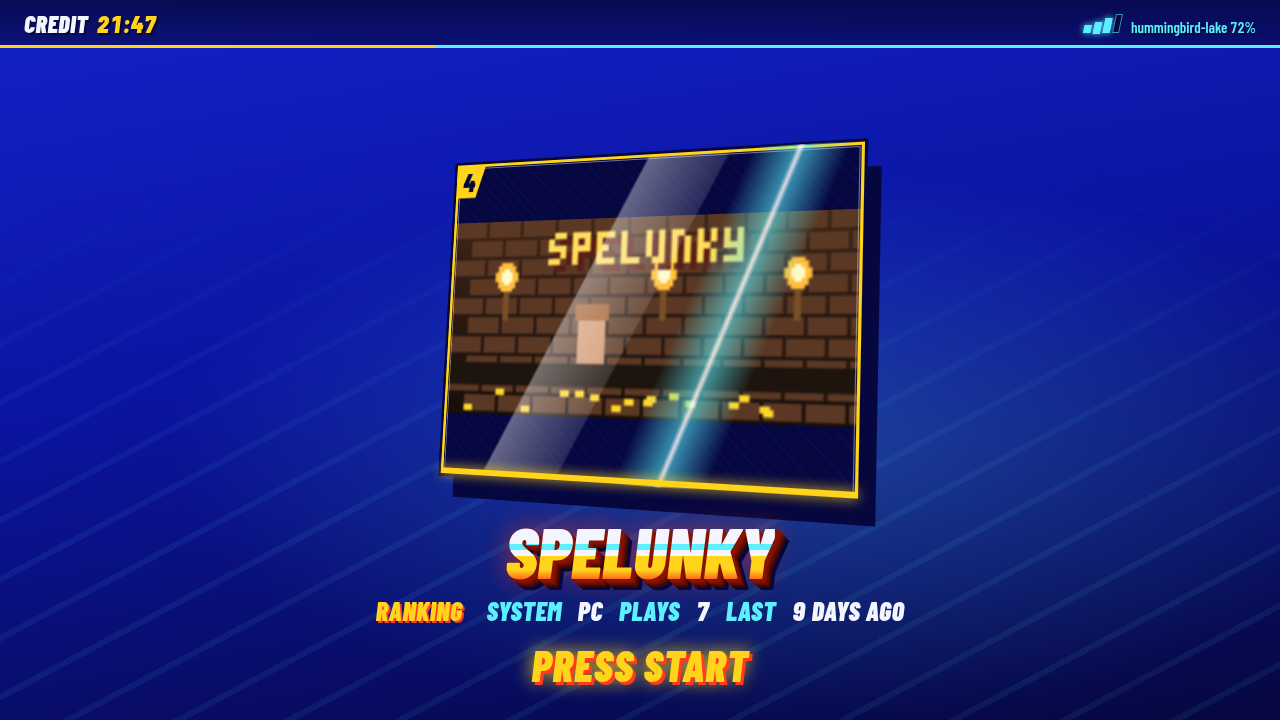
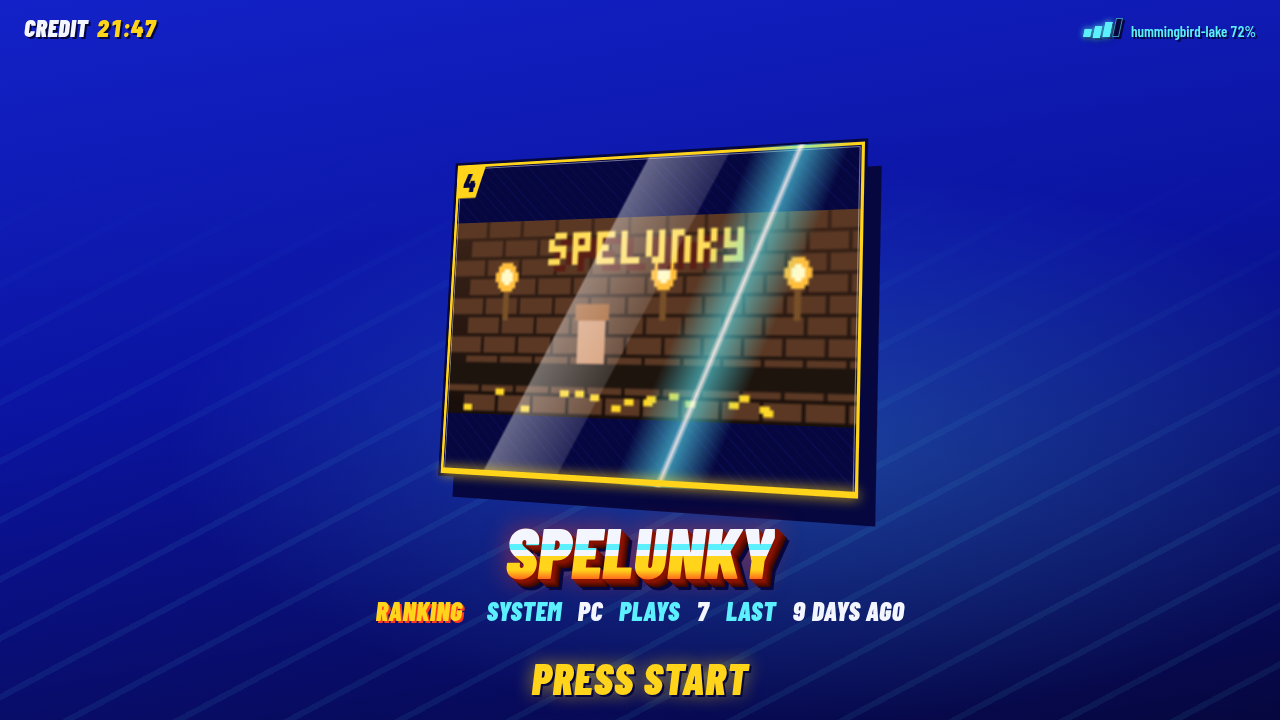
docs(design): let the modern-arcade stage bleed to the edges
Remove the top and foot strips and the full-width rule that boxed the stage
in. The four corner readouts and PRESS START float on the ground with a hard
offset shadow, the showcase takes the reclaimed height, and the 640x480
facts band becomes a content-width card with an angled edge.

Changed region(s): [[0.0, 0.0, 1.0, 0.0917], [0.4062, 0.8861, 0.5938, 0.9778]]

diff --git a/docs/design/surfaces/arcade-modern/index.html b/docs/design/surfaces/arcade-modern/index.html
@@ -22,7 +22,7 @@
   /* spacing scale: 4 8 12 16 24 32 48, times k = max(.6, min(w/1280, h/720)); JS writes the rounded values */
   --grid: 4px; --k: 1; --kt: 1;   /* --kt: type scale, k clamped to [.6, 1.2] because the panel width stops growing at 380 */
   --sp-4: 4px; --sp-8: 8px; --sp-12: 12px; --sp-16: 16px; --sp-24: 24px; --sp-32: 32px; --sp-48: 48px;
-  --top: 48px; --foot: 48px; --panelW: 333px; --bandH: 0px; --cardW: 320px; --title: 64px; --acardW: 480px; --oy: 30%;
+  --top: 40px; --foot: 38px; --readout: 24px; --svc: 22px; --panelW: 333px; --bandH: 0px; --cardW: 320px; --title: 64px; --acardW: 480px; --oy: 30%;
 }
 * { box-sizing: border-box; margin: 0; padding: 0; }
 html, body { width: 100%; height: 100%; overflow: hidden; background: var(--pit); }
@@ -41,14 +41,9 @@ body { font-family: var(--text); color: var(--chrome); -webkit-font-smoothing: a
 /* display face: 0 tracking on titles, +.02em on small caps readouts, never wider */
 .caps { letter-spacing: .02em; }
 
-/* ---------- top bar: one thin strip with a banded rule across the full width ---------- */
-#topbar { position: absolute; left: 0; right: 0; top: 0; height: var(--top); z-index: 30;
-  background: linear-gradient(180deg, rgba(6,7,63,.85), rgba(6,7,63,.55)); }
-#topbar::after { content: ""; position: absolute; left: 0; right: 0; bottom: 0; height: 3px;
-  background: linear-gradient(90deg, var(--focus) 0 34%, var(--sweep) 34% 100%); }
-.corner { position: absolute; top: 0; height: var(--top); display: flex; align-items: baseline; z-index: 31;
-  padding-top: calc((var(--top) - 1em) / 2);
-  font-family: var(--display); font-size: calc(var(--top) * .5); line-height: 1; color: var(--chrome);
+/* ---------- readouts float on the ground: no bars, no strips, a hard 2px pit-navy offset shadow each ---------- */
+.corner { position: absolute; top: var(--sp-16); display: flex; align-items: baseline; z-index: 31;
+  font-family: var(--display); font-size: var(--readout); line-height: 1; color: var(--chrome);
   text-shadow: 2px 2px 0 var(--pit); }
 .corner.tl { left: var(--sp-24); gap: .35em; }
 .corner.tl b { color: var(--focus); font-weight: 900; }
@@ -57,6 +52,7 @@ body { font-family: var(--text); color: var(--chrome); -webkit-font-smoothing: a
 .signal { display: inline-flex; align-items: flex-end; gap: 3px; height: .8em; }
 .signal i { width: .3em; background: var(--pit); border: 1px solid rgba(92,240,255,.6); transform: skewX(-12deg); }
 .signal i:nth-child(1) { height: 40%; } .signal i:nth-child(2) { height: 60%; } .signal i:nth-child(3) { height: 80%; } .signal i:nth-child(4) { height: 100%; }
+.signal { filter: drop-shadow(2px 2px 0 var(--pit)); }
 .signal i.on { background: var(--sweep); box-shadow: 0 0 6px var(--sweep); border-color: var(--sweep); }
 .corner.tr small { font-family: var(--text); font-size: .62em; color: var(--sweep); letter-spacing: 0; }
 
@@ -110,18 +106,14 @@ body { font-family: var(--text); color: var(--chrome); -webkit-font-smoothing: a
 .link { flex: 0 0 auto; align-self: center; padding: 0 var(--sp-4); text-align: center; font-family: var(--display); font-size: calc(12px * var(--kt)); color: var(--hot); position: relative; }
 .link::before { content: ""; position: absolute; left: 2px; right: 2px; top: 100%; height: 3px; background: var(--hot); margin-top: 2px; }
 
-/* band mode: the panel drops under the stage as one strip */
-#screen[data-mode="band"] #panel { left: 0; right: 0; top: auto; bottom: 0; width: auto;
-  padding: var(--sp-16) var(--sp-16) var(--sp-12); flex-direction: row; flex-wrap: wrap; align-items: baseline; gap: var(--sp-4) var(--sp-24); }
-#screen[data-mode="band"] #panel::before { clip-path: none; }
-#screen[data-mode="band"] #panel::after { display: none; }
+/* band mode: the same content-width ranking card, dropped under the stage at the left edge; the ground shows to its right */
+#screen[data-mode="band"] #panel { left: var(--sp-16); right: auto; top: auto; bottom: var(--sp-8); width: max-content; max-width: calc(100% - 2 * var(--sp-16));
+  padding: var(--sp-12) var(--sp-32) var(--sp-8) var(--sp-16); flex-direction: row; flex-wrap: wrap; align-items: baseline; gap: var(--sp-4) var(--sp-16); }
 #screen[data-mode="band"] .tab { left: var(--sp-16); }
 #screen[data-mode="band"] #p-title { font-size: 24px; max-width: 48%; }
-#screen[data-mode="band"] .entry { order: 1; }
-#screen[data-mode="band"] #places { order: 2; }
 #screen[data-mode="band"] .facts { display: flex; flex-wrap: wrap; gap: var(--sp-4) var(--sp-16); font-size: 15px; line-height: 20px; }
 #screen[data-mode="band"] .facts div { display: flex; gap: var(--sp-8); }
-#screen[data-mode="band"] .entry { margin-left: auto; font-size: 14px; line-height: 20px; }
+#screen[data-mode="band"] .entry { flex: 1 0 100%; font-size: 14px; line-height: 20px; }
 #screen[data-mode="band"] #places { flex: 1 0 100%; }
 #screen[data-mode="band"] .hint { font-size: 14px; line-height: 20px; }
 #screen[data-mode="band"] .cab { flex-direction: row; align-items: baseline; gap: var(--sp-8); padding: var(--sp-4) var(--sp-8); }
@@ -214,19 +206,17 @@ body { font-family: var(--text); color: var(--chrome); -webkit-font-smoothing: a
 #msg p { position: absolute; bottom: 14%; left: 0; right: 0; font-size: calc(20px * var(--k)); color: var(--sweep); }
 
 /* ---------- foot: service line ---------- */
-#foot { position: absolute; left: 0; right: 0; bottom: 0; height: var(--foot); display: flex; align-items: baseline; justify-content: space-between; z-index: 30;
-  padding: calc((var(--foot) - var(--foot) * .46) / 2) var(--sp-24) 0; background: linear-gradient(180deg, rgba(6,7,63,0), rgba(6,7,63,.85) 40%); }
-.svc { display: flex; align-items: baseline; gap: var(--sp-24); font-family: var(--display); font-size: calc(var(--foot) * .46); line-height: 1; white-space: nowrap;
-  opacity: .55; transition: opacity .2s; }
+#foot { position: absolute; left: var(--sp-24); right: var(--sp-24); bottom: var(--sp-16); display: flex; align-items: baseline; justify-content: space-between; z-index: 30; }
+.svc { display: flex; align-items: baseline; gap: var(--sp-24); font-family: var(--display); font-size: var(--svc); line-height: 1; white-space: nowrap;
+  opacity: .55; transition: opacity .2s; text-shadow: 2px 2px 0 var(--pit); }
 #screen[data-zone="service"] .svc { opacity: 1; }
 .svc .k { color: var(--hot); }
 .svc .it { color: var(--chrome); padding: var(--sp-4) var(--sp-8); margin: calc(var(--sp-4) * -1) calc(var(--sp-8) * -1); }
 .svc .it.focus { background: var(--focus); color: var(--pit); box-shadow: 0 0 14px var(--focus); clip-path: polygon(4px 0, 100% 0, calc(100% - 4px) 100%, 0 100%); }
-.rom { display: flex; align-items: baseline; gap: var(--sp-12); font-family: var(--text); font-size: calc(var(--foot) * .36); line-height: 1; color: var(--sweep); white-space: nowrap; }
+.rom { display: flex; align-items: baseline; gap: var(--sp-12); font-family: var(--text); font-size: calc(var(--svc) * .78); line-height: 1; color: var(--sweep); white-space: nowrap; text-shadow: 2px 2px 0 var(--pit); }
 .rom b { color: var(--chrome); font-weight: 600; font-family: var(--display); font-size: 1.25em; letter-spacing: .02em; }
-#screen[data-foot="2"] #foot { flex-direction: column; align-items: flex-start; justify-content: center; gap: var(--sp-4); padding-top: 0; }
-#screen[data-foot="2"] .svc { font-size: calc(var(--foot) * .25); }
-#screen[data-foot="2"] .rom { font-size: calc(var(--foot) * .2); align-self: flex-end; }
+#screen[data-foot="2"] #foot { flex-direction: column; align-items: flex-start; gap: var(--sp-8); }
+#screen[data-foot="2"] .rom { align-self: flex-end; }
 
 /* ---------- attract ---------- */
 #attract { position: absolute; inset: 0; display: none; z-index: 20; overflow: hidden; --cardW: var(--acardW); --title: var(--atitle); }
@@ -246,8 +236,8 @@ body { font-family: var(--text); color: var(--chrome); -webkit-font-smoothing: a
 #a-rank .k { color: var(--sweep); }
 #a-rank .v { color: var(--chrome); }
 #a-rank .r { color: var(--focus); margin-right: var(--sp-8); text-shadow: 2px 2px 0 var(--hot); }
-#press { position: absolute; left: 50%; bottom: calc(var(--foot) * .6); transform: translateX(-50%); font-family: var(--display); font-size: calc(var(--title) * .6);
-  color: var(--focus); letter-spacing: .02em; text-shadow: 3px 3px 0 var(--hot), 0 0 18px var(--focus); animation: pulse 1s steps(1) infinite; white-space: nowrap; }
+#press { position: absolute; left: 50%; bottom: var(--sp-16); transform: translateX(-50%); font-family: var(--display); font-size: calc(var(--title) * .6);
+  color: var(--focus); letter-spacing: .02em; text-shadow: 2px 2px 0 var(--pit), 0 0 18px rgba(255,212,26,.6); animation: pulse 1s steps(1) infinite; white-space: nowrap; }
 @keyframes pulse { 50% { opacity: 0; } }
 
 /* still / reduced motion */
@@ -264,7 +254,6 @@ body { font-family: var(--text); color: var(--chrome); -webkit-font-smoothing: a
 </head>
 <body>
 <div id="screen" data-state="select" data-mode="side" data-zone="ring">
-  <div id="topbar"></div>
   <div class="corner tl caps">CREDIT <b id="clock">21:47</b></div>
   <div class="corner tr"><span class="strut">&#8203;</span><span class="signal" aria-label="Wi-Fi 72%"><i class="on"></i><i class="on"></i><i class="on"></i><i></i></span><small>hummingbird-lake 72%</small></div>
 
@@ -365,11 +354,13 @@ function plan(w, h, n) {
   const sp = {}; for (const n of [4, 8, 12, 16, 24, 32, 48]) sp[n] = Math.round(n * k);
   const side = w >= SIDE_MIN_W && w / h >= SIDE_MIN_ASPECT;
   const footRows = w >= FOOT_ONE_ROW_MIN_W ? 1 : 2;
-  const top = sp[48], foot = sp[48] * footRows;
+  /* no bars: the top and foot regions are only the floating readouts' own height plus sp16 */
+  const readout = Math.round(24 * kt), svc = Math.round(22 * kt);
+  const top = sp[16] + readout, foot = sp[16] + (footRows === 1 ? svc : svc * 2 + sp[8]);
   const panelW = side ? Math.round(clamp(w * .26, 280, 380)) : 0;
   const visible = w >= FULL_RING_MIN_W ? 12 : 5;
-  return { k, kt, sp, side, top, foot, footRows, panelW, visible, step: visible >= 12 ? 360 / clamp(n, 8, 12) : 55,
-    showFrac: w / h < 1 ? .48 : .36,   /* of the ring region (side) or the stage (band) */
+  return { k, kt, sp, side, top, foot, footRows, readout, svc, panelW, visible, step: visible >= 12 ? 360 / clamp(n, 8, 12) : 55,
+    showFrac: side ? .40 : (w / h < 1 ? .48 : .36),   /* of the ring region (side) or the stage (band) */
     acardW: Math.round(Math.min(w * .40, h * .46 * 4 / 3)), atitle: Math.round(clamp(Math.min(w * .40, h * .46 * 4 / 3) * .2, 26, 72)) };
 }
 let P, SP;
@@ -378,7 +369,7 @@ function applyPlan() {
   const s = screen.style;
   s.setProperty('--k', P.k.toFixed(3)); s.setProperty('--kt', P.kt.toFixed(3));
   for (const n in SP) s.setProperty('--sp-' + n, SP[n] + 'px');
-  s.setProperty('--top', P.top + 'px'); s.setProperty('--foot', P.foot + 'px');
+  s.setProperty('--top', P.top + 'px'); s.setProperty('--foot', P.foot + 'px'); s.setProperty('--readout', P.readout + 'px'); s.setProperty('--svc', P.svc + 'px');
   s.setProperty('--panelW', P.panelW + 'px'); s.setProperty('--acardW', P.acardW + 'px'); s.setProperty('--atitle', P.atitle + 'px');
   screen.dataset.mode = P.side ? 'side' : 'band';
   screen.dataset.foot = P.footRows;
@@ -542,7 +533,7 @@ function renderPanel() {
     return `<div class="cab${lit ? ' lit' : ''}${foc ? ' focus' : ''}"><span class="side caps">${i === 0 ? '1P SIDE' : '2P SIDE'}</span><span class="name">${upper(p)}</span></div>`;
   }).join('<span class="link caps">LINK</span>') : '';
   fitPanelTitle();
-  screen.style.setProperty('--bandH', (P.side ? 0 : panel.offsetHeight) + 'px');
+  screen.style.setProperty('--bandH', (P.side ? 0 : panel.offsetHeight + SP[8]) + 'px');
   layoutRing();
 }
 
@@ -608,6 +599,9 @@ window.audit = () => {
     const l2 = R((focus - 2 + N) % N), r2 = R((focus + 2) % N); out.n12L = Math.round(ix(l, l2)); out.n12R = Math.round(ix(r, r2)); }
   const p = document.getElementById('panel').getBoundingClientRect(); out.panel = rr(p);
   if (screen.dataset.mode === 'side') for (const i of vis) { const b = R(i); if (ix(p, b)) out['underPanel' + i] = Math.round(ix(p, b)); }
+  const ro = ['.corner.tl', '.corner.tr', '#foot'].map(s => document.querySelector(s).getBoundingClientRect());
+  for (const i of vis) { const b = R(i); ro.forEach((r, j) => { if (ix(r, b)) out['hitReadout' + j + '_' + i] = Math.round(ix(r, b)); }); }
+  out.panelGapTop = Math.round(p.top - ro[0].bottom);
   const pl = document.getElementById('plinth').getBoundingClientRect();
   for (const i of vis) { if (i === focus) continue; const t = ring.children[i].querySelector('.num').getBoundingClientRect(); if (ix(t, f) || ix(t, pl)) out['tabHidden' + i] = Math.round(ix(t, f) + ix(t, pl)); }
   if (N > 4) { const ks = [-2, -1, 1, 2].map(k => R(((focus + k) % N + N) % N)); for (let a = 0; a < 4; a++) for (let b = a + 1; b < 4; b++) { const o = ix(ks[a], ks[b]); if (o) out['front' + a + b] = Math.round(o); } }

diff --git a/docs/design/surfaces/arcade-modern/DIRECTION.md b/docs/design/surfaces/arcade-modern/DIRECTION.md
@@ -12,9 +12,9 @@
 
 **Disclosure rule.** Resting SELECT shows the showcase, ring, top readouts and the panel with title + facts only. The places pair appears as a one-line hint `LINK · 2 CABINETS ▾` only when the focused game has two places and focus is on the ring; it expands into the 1P/2P cabinet boxes only when focus enters it (`?zone=places`, down or A). TEST MODE sits at 55% and lights to full when focused or `menu` is pressed (`?zone=service`). On the ring only the focused card and its two nearest neighbours carry a readable title; farther cards show number and picture only.
 
-**Ring math (one line).** Cards sit on an ellipse `(rx, ry = .2·showH)` at angle `θ(k)`: the front five (k = −2..2) at `k·stepF`, the back cards sharing the rest of the circle at `stepB = (360 − 4·stepF)/(N − 4)`; screen point `X = cx + rx·sin θ, Y = cy − ry·(cos stepF − cos θ)` so k = ±1 sit level with the showcase centre; depth `d = (1 − cos θ)/2` gives `translateZ = −1000·d`, `rotateY = 50·sin θ`, navy shade `.55·d`, `z-index ∝ 1 − d`; `translate3d` is solved so the perspective (1100px, origin at .35·cy) projects each card onto that point. Side mode: the ring region is `[panelRight + sp24, w − sp24]`, `cx` is its centre (showcase too), showcase `cardW = .36·region` (315 at 1280), `rx = .42·region` growing to the region edge, then `stepF` (30°..48°) is solved so the front five keep a 16px gap from the showcase frame and each other; only past 48° does the showcase shrink. Back-half cards (|θ| > 90°) may pass behind the showcase and plinth but their number tab stays visible (the ellipse nudges up by any overlap); no card ever sits under the panel. Band mode: 5 cards at 55°, `rx` the smallest radius that clears the showcase by 8px, never past the viewport edge. Back cards are higher on screen (ring seen from above) so the plinth band stays clear; the thin cyan track is the same ellipse. Step 30° for 12 cards (360/N for 8..12), 55° for the 5-card ring (`w < 760`); N > 12 shows 12 around the focus.
+**Ring math (one line).** Cards sit on an ellipse `(rx, ry = .2·showH)` at angle `θ(k)`: the front five (k = −2..2) at `k·stepF`, the back cards sharing the rest of the circle at `stepB = (360 − 4·stepF)/(N − 4)`; screen point `X = cx + rx·sin θ, Y = cy − ry·(cos stepF − cos θ)` so k = ±1 sit level with the showcase centre; depth `d = (1 − cos θ)/2` gives `translateZ = −1000·d`, `rotateY = 50·sin θ`, navy shade `.55·d`, `z-index ∝ 1 − d`; `translate3d` is solved so the perspective (1100px, origin at .35·cy) projects each card onto that point. Side mode: the ring region is `[panelRight + sp24, w − sp24]`, `cx` is its centre (showcase too), showcase `cardW = .40·region` (342 at 1280), `rx = .42·region` growing to the region edge, then `stepF` (30°..48°) is solved so the front five keep a 16px gap from the showcase frame and each other; only past 48° does the showcase shrink. Back-half cards (|θ| > 90°) may pass behind the showcase and plinth but their number tab stays visible (the ellipse nudges up by any overlap); no card ever sits under the panel. Band mode: 5 cards at 55°, `rx` the smallest radius that clears the showcase by 8px, never past the viewport edge. Back cards are higher on screen (ring seen from above) so the plinth band stays clear; the thin cyan track is the same ellipse. Step 30° for 12 cards (360/N for 8..12), 55° for the 5-card ring (`w < 760`); N > 12 shows 12 around the focus.
 
-**Spacing scale.** `--sp-4 … --sp-48` = {4, 8, 12, 16, 24, 32, 48} × `k`, `k = max(.6, min(w/1280, h/720))`, rounded, written by `plan()`; type uses `--kt = min(k, 1.2)`. Top and foot bars are `--sp-48`, panel padding `--sp-24`/`--sp-32`, card→band `--sp-8`, band inset `--sp-12`, foot items `--sp-24` apart. The top bar carries a 3px yellow→cyan rule across the full width; the signal badge shares CREDIT's baseline.
+**Spacing scale.** `--sp-4 … --sp-48` = {4, 8, 12, 16, 24, 32, 48} × `k`, `k = max(.6, min(w/1280, h/720))`, rounded, written by `plan()`; type uses `--kt = min(k, 1.2)`. No top or foot bar: the readouts (CREDIT, signal badge, TEST MODE, `mini` + version, PRESS START) float on the ground `--sp-16` from the top/bottom and `--sp-24` from the sides, each with a hard 2px pit-navy offset shadow and no backing; the stage's top/foot regions are only the readout height (24px·kt / 22px·kt) + `--sp-16`. Panel padding `--sp-24`/`--sp-32`, panel top `--sp-16` under CREDIT, card→band `--sp-8`, band inset `--sp-12`, foot items `--sp-24` apart; the signal badge shares CREDIT's baseline.
 
 **plan(width, height, n)** (one function in the file, thresholds named there): `side = w ≥ 900 && w/h ≥ 1.35`; band mode drops the panel under the stage as one strip whose height is its content (the ring shrinks when the pair expands); foot rows `2` when `w < 600`; `cardW = min(W·frac, H·.54·4/3)` with frac .26 side / .36 band / .48 portrait; title `clamp(.2 cardW, 26, 72)`, one line shrinking to 22px, then two lines (Zelda breaks after the colon). Checked at 1280×720, 640×480, 1920×1080, 480×800; stress `?n=0|1|40`, `?focus=9|6|5`, `?zone=places|service`.
 
